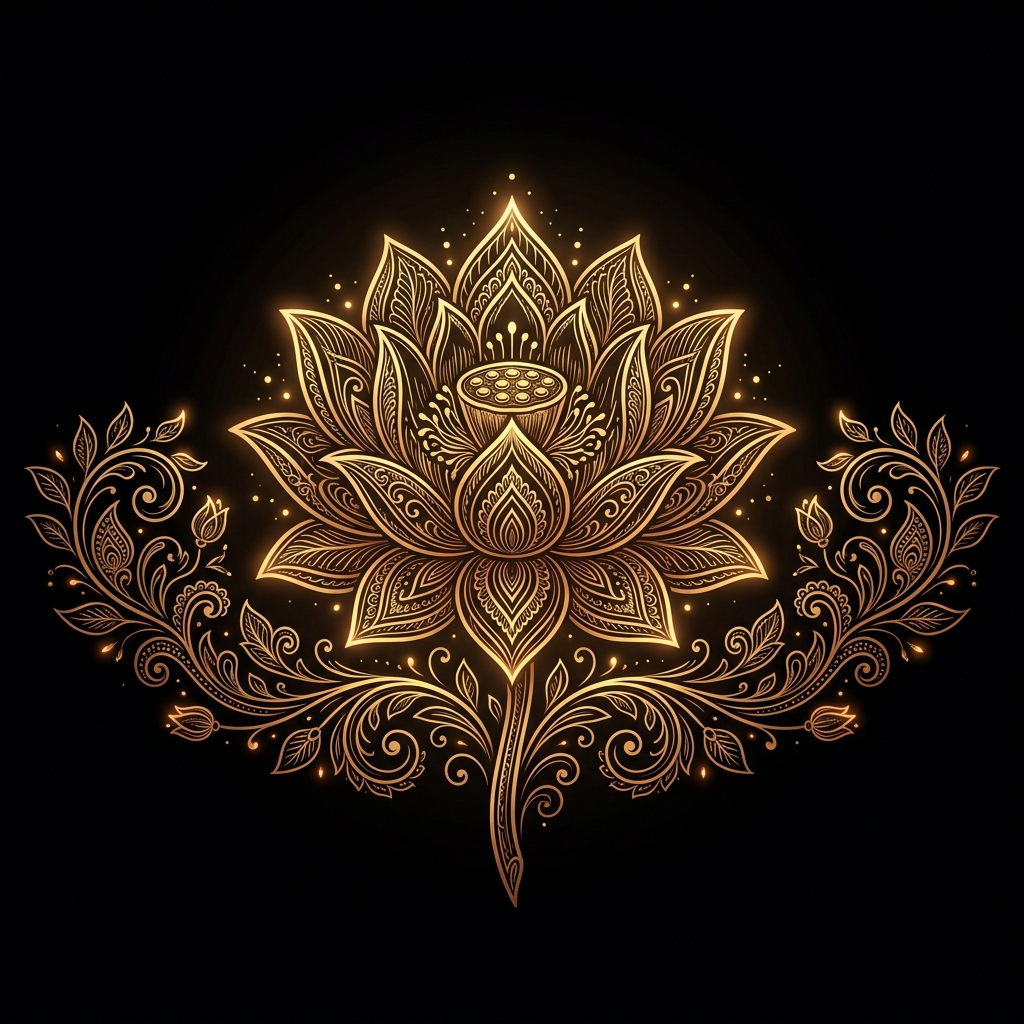
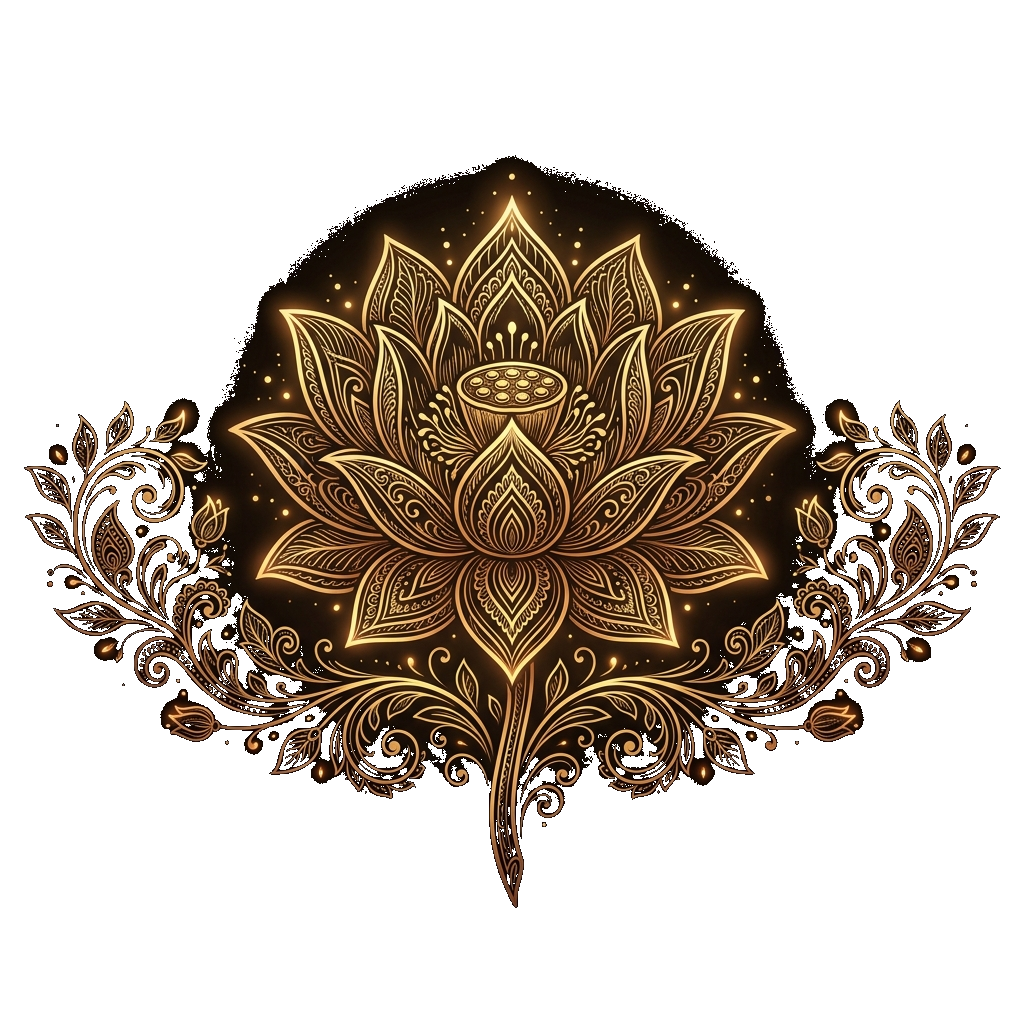
default theme implemented

diff --git a/src/routes/index.tsx b/src/routes/index.tsx
@@ -124,14 +124,14 @@ function Hero() {
           src={heritageElephant}
           alt=""
           aria-hidden="true"
-          className="absolute right-full top-1/2 -translate-y-1/2 mr-6 h-[400px] w-auto object-contain pointer-events-none select-none z-10 opacity-75 dark:opacity-55 mix-blend-multiply invert hue-rotate-[180deg] brightness-[0.45] contrast-[1.2] dark:mix-blend-screen dark:invert-0 dark:hue-rotate-0 dark:brightness-100 dark:contrast-100 hidden xl:block transition-all duration-300"
+          className="absolute right-full top-1/2 -translate-y-1/2 mr-6 h-[400px] w-auto object-contain pointer-events-none select-none z-10 opacity-75 dark:opacity-55 invert hue-rotate-[180deg] brightness-[0.45] contrast-[1.2] dark:invert-0 dark:hue-rotate-0 dark:brightness-100 dark:contrast-100 hidden xl:block transition-all duration-300"
         />
         {/* Right Elephant: Flipped scale-x-[-1] to look left toward the text */}
         <img
           src={heritageElephant}
           alt=""
           aria-hidden="true"
-          className="absolute left-full top-1/2 -translate-y-1/2 ml-6 h-[400px] w-auto object-contain pointer-events-none select-none z-10 transform scale-x-[-1] opacity-75 dark:opacity-55 mix-blend-multiply invert hue-rotate-[180deg] brightness-[0.45] contrast-[1.2] dark:mix-blend-screen dark:invert-0 dark:hue-rotate-0 dark:brightness-100 dark:contrast-100 hidden xl:block transition-all duration-300"
+          className="absolute left-full top-1/2 -translate-y-1/2 ml-6 h-[400px] w-auto object-contain pointer-events-none select-none z-10 transform scale-x-[-1] opacity-75 dark:opacity-55 invert hue-rotate-[180deg] brightness-[0.45] contrast-[1.2] dark:invert-0 dark:hue-rotate-0 dark:brightness-100 dark:contrast-100 hidden xl:block transition-all duration-300"
         />
         <Reveal>
           <p className="text-center font-serif text-base tracking-wide text-terracotta">
@@ -371,7 +371,7 @@ function Publications({ publications }: { publications: Array<{ id: string; titl
                     <img 
                       src={heritageLotus} 
                       alt="Golden Lotus"
-                      className="w-full h-full object-contain relative z-10 transition-transform duration-500 group-hover:scale-105 mix-blend-multiply invert hue-rotate-[180deg] brightness-[0.45] contrast-[1.2] dark:mix-blend-screen dark:invert-0 dark:hue-rotate-0 dark:brightness-100 dark:contrast-100"
+                      className="w-full h-full object-contain relative z-10 transition-transform duration-500 group-hover:scale-105 invert hue-rotate-[180deg] brightness-[0.45] contrast-[1.2] dark:invert-0 dark:hue-rotate-0 dark:brightness-100 dark:contrast-100"
                     />
                   </div>
                 </div>

diff --git a/src/routes/publication.tsx b/src/routes/publication.tsx
@@ -148,7 +148,7 @@ function Publication() {
                       <img 
                         src={heritageLotus} 
                         alt="Golden Lotus"
-                        className="w-full h-full object-contain relative z-10 transition-transform duration-500 group-hover:scale-105 mix-blend-multiply invert hue-rotate-[180deg] brightness-[0.45] contrast-[1.2] dark:mix-blend-screen dark:invert-0 dark:hue-rotate-0 dark:brightness-100 dark:contrast-100"
+                        className="w-full h-full object-contain relative z-10 transition-transform duration-500 group-hover:scale-105 invert hue-rotate-[180deg] brightness-[0.45] contrast-[1.2] dark:invert-0 dark:hue-rotate-0 dark:brightness-100 dark:contrast-100"
                       />
                     </div>
                   </div>

diff --git a/src/routes/__root.tsx b/src/routes/__root.tsx
@@ -134,6 +134,21 @@ function RootShell({ children }: { children: ReactNode }) {
     <html lang="en">
       <head>
         <HeadContent />
+        <script
+          dangerouslySetInnerHTML={{
+            __html: `
+              (function() {
+                var stored = localStorage.getItem('bm-theme');
+                var isDark = stored ? stored === 'dark' : true;
+                if (isDark) {
+                  document.documentElement.classList.add('dark');
+                } else {
+                  document.documentElement.classList.remove('dark');
+                }
+              })();
+            `,
+          }}
+        />
       </head>
       <body>
         {children}

diff --git a/src/components/site/site-header.tsx b/src/components/site/site-header.tsx
@@ -39,12 +39,12 @@ export function SiteHeader() {
   const [scrolled, setScrolled] = useState(false);
   const [open, setOpen] = useState(false);
   const [searchOpen, setSearchOpen] = useState(false);
-  const [dark, setDark] = useState(false);
+  const [dark, setDark] = useState(true);
   const [dropdownOpen, setDropdownOpen] = useState(false);
 
   useEffect(() => {
     const stored = localStorage.getItem("bm-theme");
-    const isDark = stored === "dark";
+    const isDark = stored ? stored === "dark" : true;
     setDark(isDark);
     document.documentElement.classList.toggle("dark", isDark);
   }, []);
